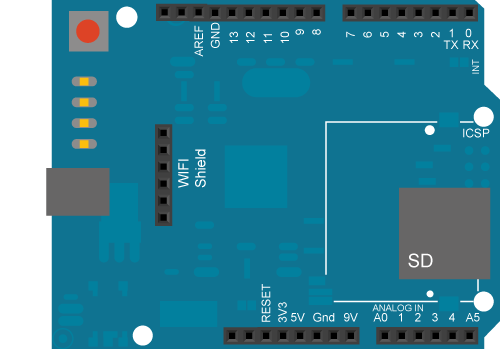
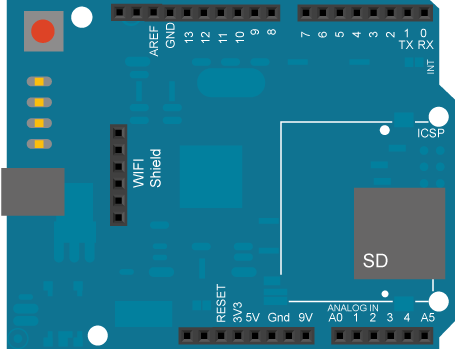
Improved mobile visualization

diff --git a/arduino/README.md b/arduino/README.md
@@ -214,7 +214,7 @@ You can find additional information for the ESP8266 package in the [ESP8266 Gith
 The following example will allow connecting your device to the cloud platform in a few lines. Just replace the sketch **username**, **deviceId**, and **deviceCredential** with your own credentials, and the **wifi_ssid**, **wifi_password** with the WiFi credentials.
 
 <p align="center">
-<img src="assets/nodemcu.png" width="350px">
+<img src="assets/nodemcu.png" width="325px">
 </p>
 
 ``` cpp
@@ -246,7 +246,7 @@ Once the environment is available and you can program the board examples, then y
 The following example will allow connecting your device to the cloud platform in a few lines. Just replace the sketch **username**, **deviceId**, and **deviceCredential** with your own credentials, and the **wifi_ssid**, **wifi_password** with the WiFi credentials.
 
 <p align="center">
-<img src="assets/ti-cc3200.png" width="350px">
+<img src="assets/ti-cc3200.png" width="325px">
 </p>
 
 ``` cpp
@@ -304,7 +304,7 @@ void loop() {
 You can easily start with some available example for your device after you install the client libraries.
 
 <p align="center">
-<img src="assets/arduino-examples.png" width="350">
+<img src="assets/arduino-examples.png" width="325">
 </p>
 
 > It is recommended to start with some of the examples available in the Arduino IDE when you install the librarires
@@ -528,7 +528,7 @@ It is possible to easily interact with your devices within minutes once you have
 One of the easiest ways to access your devices is to simply issue a device token to grant access to the device. When you generate a device token you can restrict the shared resources, and the token expiration time, so you can share some device functionality with other people safely. The idea is that you can use this device token and scan it as a QR code in the Android application.
 
 <p align="center">
-<img src="assets/token.png" width="350px">
+<img src="assets/token.png" width="325px">
 </p>
 
 > Generate a device token in your cloud console, so you can easily interact from your phone within minutes.
@@ -538,7 +538,7 @@ One of the easiest ways to access your devices is to simply issue a device token
 The current version of the [Android APP](https://play.google.com/store/apps/details?id=io.thinger.thinger) does not require any kind of login to interact with your devices. Simply scan your token as a QR code and your phone will be able to interact with your device for reading sensor values, changing led or relays states, and so on.
 
 <p align="center">
-<img src="assets/phone.png" width="350px">
+<img src="assets/phone.png" width="325px">
 </p>
 
 > In the current version of the Android APP, you can interact with your device resources out of the box. Just scan the QR Code and start interacting with your resources directly from the Internet.
